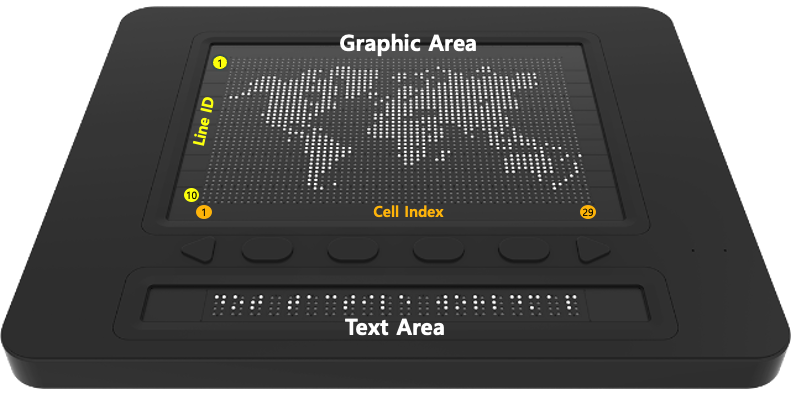
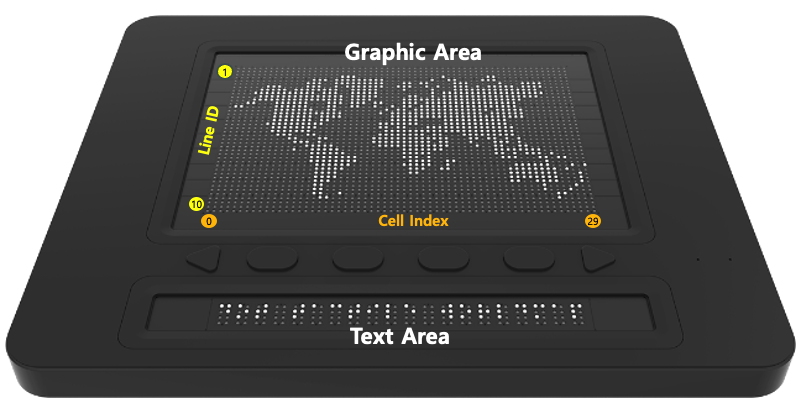
update Android SDK 2.0.0 README.md

diff --git a/Android/2.0.0/README.md b/Android/2.0.0/README.md
@@ -60,9 +60,7 @@
 
 ### displayGraphicData(lineId:Int, startCellIndex:Int, data:String)
 * This function prints data on specific lines and cells in the Dot Pad graphic area.
-* Dot Pad's line ID consists of 10 graphics line (1..10) and 1 text line (0).
-* The Dot Pad cell index consists of 30 numbers(0..29)
-* parameter : lineId(0..10), startCellIndex(0..29), data(Graphic Data)
+* parameter : lineId(1..10), startCellIndex(0..29), data(Graphic Data)
     ```
     import com.dotincorp.sdk.process.DotPadProcess
     val process = DotPadProcess()
